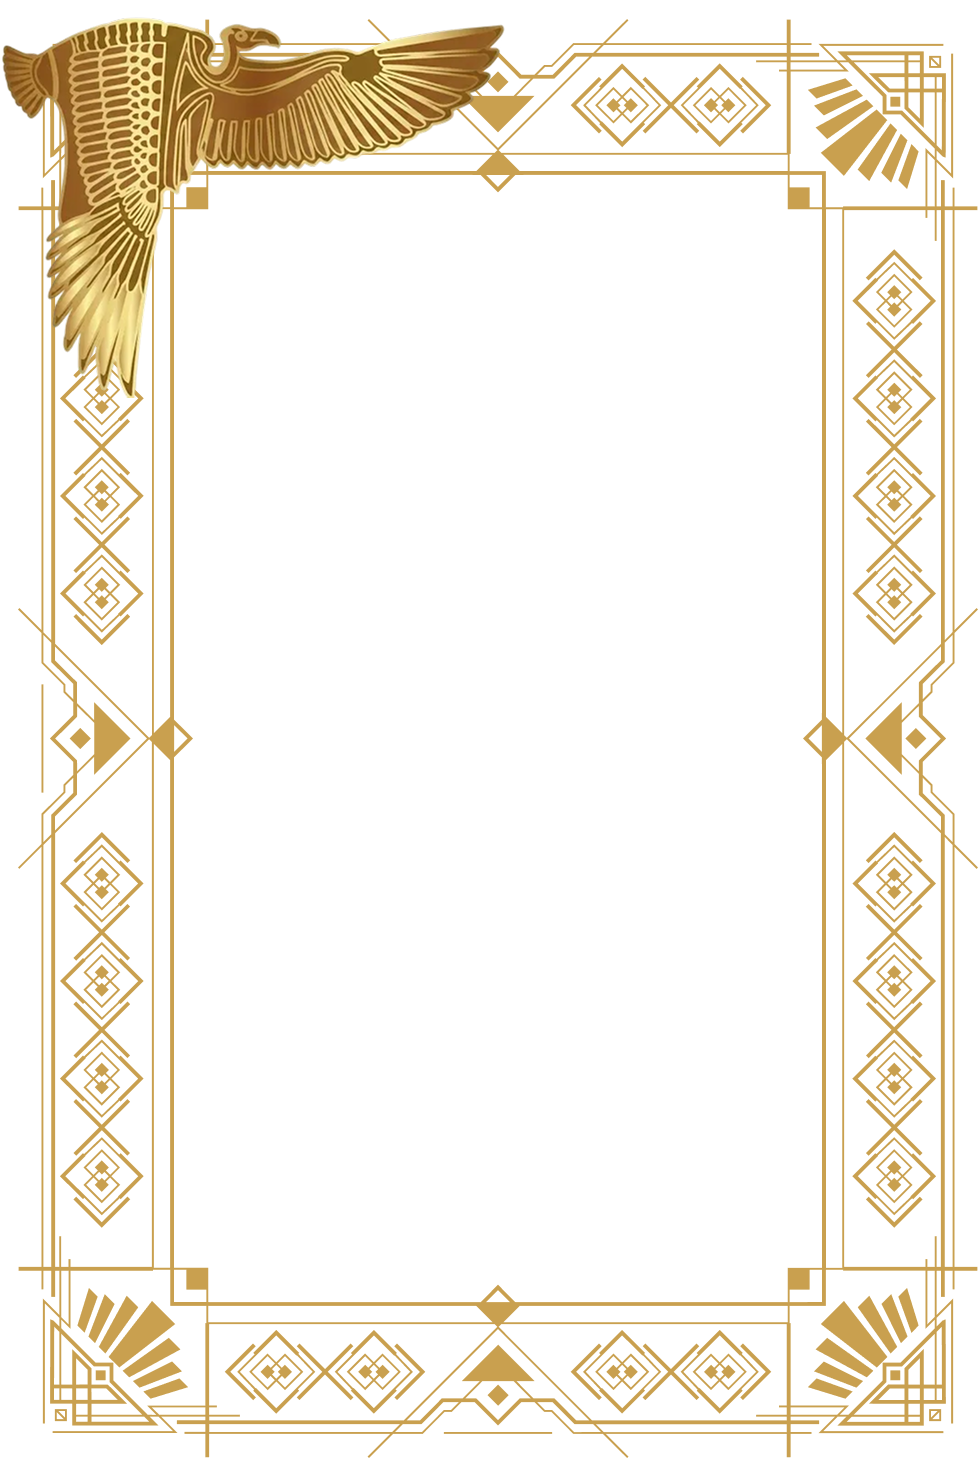
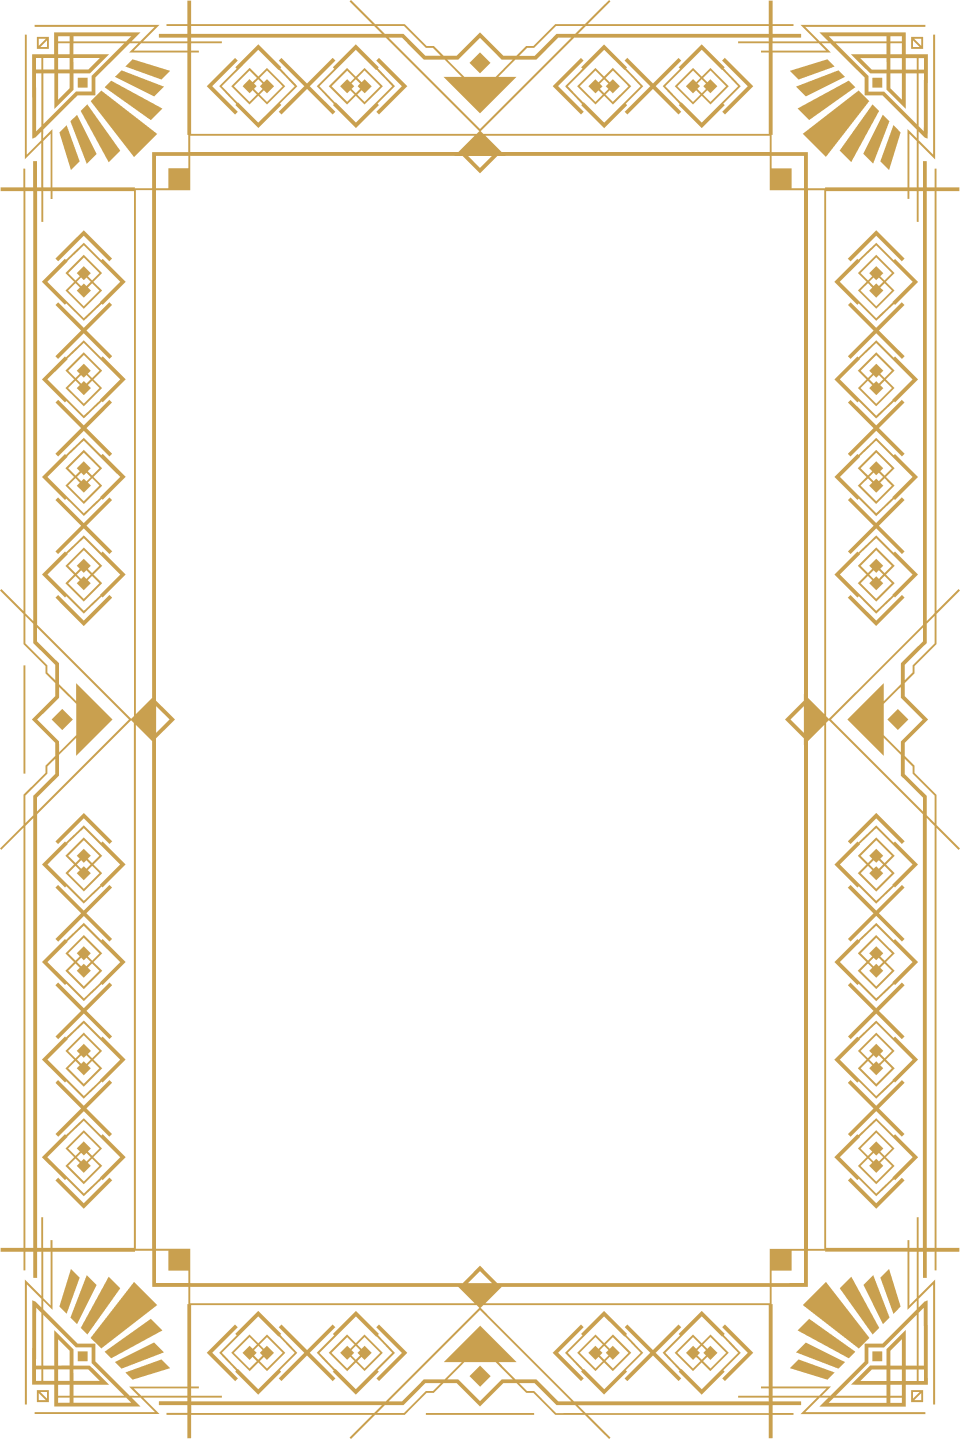
Frames added

Changed region(s): [[0.0, 0.0, 1.0, 1.0]]

diff --git a/services/stampService.ts b/services/stampService.ts
@@ -1,20 +1,12 @@
 import { EraData, EraId } from '../types';
 
 export const applyEraStamp = (imageSrc: string, era: EraData): Promise<string> => {
-    return new Promise((resolve, reject) => {
-        const mainImage = new Image();
-        const stampImage = new Image();
-        const logoImage = new Image();
-        const sloganImage = new Image();
-
-        mainImage.crossOrigin = "anonymous";
-        stampImage.crossOrigin = "anonymous";
-        logoImage.crossOrigin = "anonymous";
-        sloganImage.crossOrigin = "anonymous";
-
+    return new Promise((resolve) => {
         const hasStamp = era.id !== EraId.MODERN_EGYPT && era.stamps && era.stamps.length > 0;
+        const hasFrame = era.frames && era.frames.length > 0;
+
         let assetsLoaded = 0;
-        const totalAssets = hasStamp ? 4 : 2; // logo + main + (stamp + slogan if not modern)
+        const totalAssets = (hasFrame ? 1 : 0) + (hasStamp ? 2 : 0) + 2; // +1 for mainImage, +1 for secondary logo
 
         const onAssetLoad = () => {
             assetsLoaded++;
@@ -23,28 +15,41 @@ export const applyEraStamp = (imageSrc: string, era: EraData): Promise<string> =
             }
         };
 
-        const onError = (err: any) => {
-            console.error("Error loading images for stamping", err);
-            resolve(imageSrc);
+        const createSafeImage = (src: string, isEssential = false) => {
+            const img = new Image();
+            if (!src.startsWith('data:')) {
+                img.crossOrigin = "anonymous";
+            }
+            img.onload = onAssetLoad;
+            img.onerror = (err) => {
+                console.error(`[Composition] Failed to load image: ${src}`, err);
+                if (isEssential) {
+                    resolve(imageSrc);
+                } else {
+                    onAssetLoad();
+                }
+            };
+            img.src = src;
+            return img;
         };
 
-        mainImage.onload = onAssetLoad;
-        mainImage.onerror = onError;
-        logoImage.onload = onAssetLoad;
-        logoImage.onerror = onError;
+        const mainImage = createSafeImage(imageSrc, true);
+        const logoImage = createSafeImage(['./Logos/Gold-Logo.png', './Logos/Original-Logo.png'][Math.floor(Math.random() * 2)]);
 
-        mainImage.src = imageSrc;
-        logoImage.src = './Eagle-Logo.png';
+        // Conditional assets
+        let frameImg: HTMLImageElement | null = null;
+        let stampImg: HTMLImageElement | null = null;
+        let sloganImg: HTMLImageElement | null = null;
+
+        if (hasFrame) {
+            const randomFrame = era.frames[Math.floor(Math.random() * era.frames.length)];
+            frameImg = createSafeImage(randomFrame);
+        }
 
         if (hasStamp) {
-            stampImage.onload = onAssetLoad;
-            stampImage.onerror = onError;
             const randomStamp = era.stamps[Math.floor(Math.random() * era.stamps.length)];
-            stampImage.src = randomStamp;
-
-            sloganImage.onload = onAssetLoad;
-            sloganImage.onerror = onError;
-            sloganImage.src = './Text-Slogan.png';
+            stampImg = createSafeImage(randomStamp);
+            sloganImg = createSafeImage('./Text-Slogan.png');
         }
 
         const processComposition = () => {
@@ -56,42 +61,62 @@ export const applyEraStamp = (imageSrc: string, era: EraData): Promise<string> =
                 return;
             }
 
-            canvas.width = mainImage.width;
-            canvas.height = mainImage.height;
+            const FRAME_WIDTH = 700;
+            const FRAME_HEIGHT = 1083;
 
-            // Draw the main image
-            ctx.drawImage(mainImage, 0, 0);
-
-            // Settings for overlays
-            const padding = canvas.width * 0.05;
-
-            // 1. Draw Eagle Logo - Top Left
-            const logoScale = 0.4;
-            const logoWidth = canvas.width * logoScale;
-            const logoHeight = logoWidth * (logoImage.height / logoImage.width);
-            ctx.drawImage(logoImage, padding, padding, logoWidth, logoHeight);
-
-            // 2. Draw Era Stamp - Bottom Right (with extra vertical lift for safety)
-            if (hasStamp) {
-                const stampScale = 0.26;
-                const stampWidth = canvas.width * stampScale;
-                const stampHeight = stampWidth * (stampImage.height / stampImage.width);
-                const x = canvas.width - stampWidth - padding;
-                const y = canvas.height - stampHeight - (padding * 1.6); // Lifted slightly higher
-
-                ctx.drawImage(stampImage, x, y, stampWidth, stampHeight);
-
-                // 3. Draw Text Slogan - Bottom Left (Mirrors Stamp Position)
-                const sloganScale = 0.35; // Slogans are usually wider, so giving it more scale
-                const sloganWidth = canvas.width * sloganScale;
-                const sloganHeight = sloganWidth * (sloganImage.height / sloganImage.width);
-                const sloganX = padding;
-                const sloganY = canvas.height - sloganHeight - (padding * 1.6);
-
-                ctx.drawImage(sloganImage, sloganX, sloganY, sloganWidth, sloganHeight);
+            if (hasFrame) {
+                canvas.width = FRAME_WIDTH;
+                canvas.height = FRAME_HEIGHT;
+            } else {
+                canvas.width = mainImage.width;
+                canvas.height = mainImage.height;
             }
 
-            resolve(canvas.toDataURL('image/jpeg', 0.95));
+            // 1. Draw Frame - BASE layer
+            if (hasFrame && frameImg) {
+                ctx.drawImage(frameImg, 0, 0, canvas.width, canvas.height);
+            }
+
+            // 2. Draw Main Image - TOP layer
+            const marginX = hasFrame ? canvas.width * 0.12 : 0;
+            const targetWidth = canvas.width - (marginX * 2);
+            const targetHeight = targetWidth * (mainImage.height / mainImage.width);
+            const targetX = marginX;
+            const targetY = (canvas.height - targetHeight) / 2;
+
+            ctx.drawImage(mainImage, targetX, targetY, targetWidth, targetHeight);
+
+            // 3. Draw Branding Overlays
+            const logoInternalPadding = targetWidth * 0.05;
+            const logoScale = 0.385; // Increased by 10% from 0.35
+            const logoWidth = targetWidth * logoScale;
+            const logoHeight = logoWidth * (logoImage.height / logoImage.width);
+            const logoX = targetX + logoInternalPadding;
+            const logoY = targetY + logoInternalPadding;
+
+            ctx.drawImage(logoImage, logoX, logoY, logoWidth, logoHeight);
+
+            if (hasStamp && stampImg && sloganImg) {
+                const overlayPadding = targetWidth * 0.05;
+
+                const stampScale = 0.20;
+                const stampWidth = targetWidth * stampScale;
+                const stampHeight = stampWidth * (stampImg.height / stampImg.width);
+                const stampX = targetX + targetWidth - stampWidth - overlayPadding;
+                const stampY = targetY + targetHeight - stampHeight - (overlayPadding * 1.5);
+
+                ctx.drawImage(stampImg, stampX, stampY, stampWidth, stampHeight);
+
+                const sloganScale = 0.28;
+                const sloganWidth = targetWidth * sloganScale;
+                const sloganHeight = sloganWidth * (sloganImg.height / sloganImg.width);
+                const sloganX = targetX + overlayPadding;
+                const sloganY = targetY + targetHeight - sloganHeight - (overlayPadding * 1.5);
+
+                ctx.drawImage(sloganImg, sloganX, sloganY, sloganWidth, sloganHeight);
+            }
+
+            resolve(canvas.toDataURL('image/png'));
         };
     });
 };

diff --git a/constants.ts b/constants.ts
@@ -132,6 +132,9 @@ export const ERAS: EraData[] = [
       "./Stamps/Old-Egyptian/1.png",
       "./Stamps/Old-Egyptian/2.png",
       "./Stamps/Old-Egyptian/3.png"
+    ],
+    frames: [
+      "./Frames/Old-Egyptian/1.png"
     ]
   },
   {
@@ -229,6 +232,11 @@ export const ERAS: EraData[] = [
       "./Stamps/Coptic/1.png",
       "./Stamps/Coptic/2.png",
       "./Stamps/Coptic/3.png"
+    ],
+    frames: [
+      "./Frames/Coptic/1.png",
+      "./Frames/Coptic/2.png",
+      "./Frames/Coptic/3.png"
     ]
   },
   {
@@ -295,6 +303,11 @@ export const ERAS: EraData[] = [
       "./Stamps/Islamic/2.png",
       "./Stamps/Islamic/3.png",
       "./Stamps/Islamic/4.png"
+    ],
+    frames: [
+      "./Frames/Islamic/1.png",
+      "./Frames/Islamic/2.png",
+      "./Frames/Islamic/3.png"
     ]
   },
   {
@@ -321,6 +334,10 @@ export const ERAS: EraData[] = [
     ],
     stamps: [
       "./Stamps/Modern-Egypt/1.png"
+    ],
+    frames: [
+      "./Frames/Modern-Egypt/1.png",
+      "./Frames/Modern-Egypt/2.png"
     ]
   },
   {
@@ -331,6 +348,10 @@ export const ERAS: EraData[] = [
     scenery: [],
     stamps: [
       "./Stamps/Modern-Egypt/1.png"
+    ],
+    frames: [
+      "./Frames/Modern-Egypt/1.png",
+      "./Frames/Modern-Egypt/2.png"
     ]
   }
 ];

diff --git a/components/ResultScreen.tsx b/components/ResultScreen.tsx
@@ -94,7 +94,7 @@ export const ResultScreen: React.FC<ResultScreenProps> = ({ imageSrc, prompt, er
   const handleDownload = () => {
     const link = document.createElement('a');
     link.href = imageSrc;
-    link.download = `chronolens-${era.id}-${Date.now()}.jpg`;
+    link.download = `chronolens-${era.id}-${Date.now()}.png`;
     document.body.appendChild(link);
     link.click();
     document.body.removeChild(link);

diff --git a/types.ts b/types.ts
@@ -27,6 +27,7 @@ export interface EraData {
   previewImage: string;
   scenery: Scenery[];
   stamps: string[];
+  frames: string[];
   characters?: string[];
 }
 
